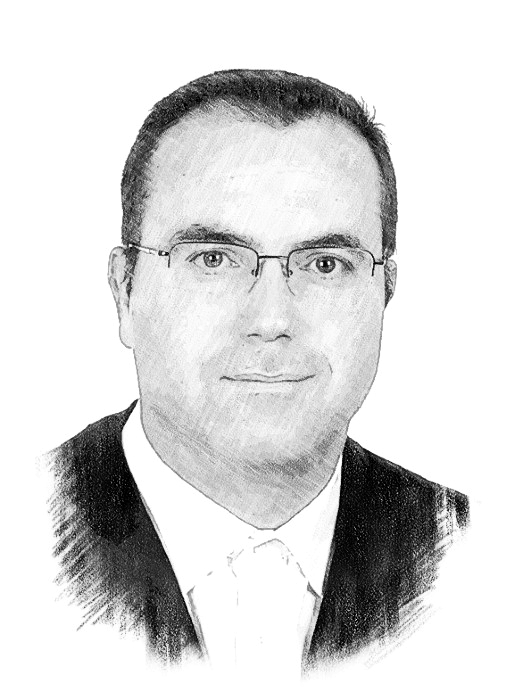
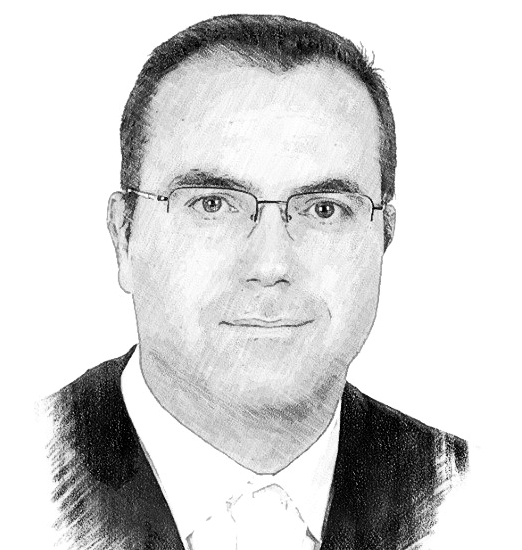
Nov.11.2015 changes

diff --git a/index.html b/index.html
@@ -21,14 +21,15 @@
           <p>Tenured Assistant Professor</p>
   
   
-          <p><img src="images/cf.jpg" alt="Me"></p>
+          <p><img src="images/cf.jpg" alt="Me" style="width:75%;"></p>
         </div>
       <pre>email:   farre`at`essi.upc.edu
 office:  Despatx Omega-133 (<a href=
 				"http://maps.google.com/maps/ms?ie=UTF8&amp;hl=en&amp;msa=0&amp;msid=118446664410541882953.00000112d8265e1d7f8ae&amp;t=h&amp;z=19">map</a>)
          Jordi Girona 1-3
          08034-Barcelona
-phone:   +34 934 137 819 (<a href="tel:+34934137819">dial</a>)
+phone:   <a href="tel:+34934137819">+34 934 137 819 </a>
+skype:   <a href="skype:carlesf?call">carlesf</a>
 twitter: <a href="https://twitter.com/cfarre">@cfarre</a>
 </pre>
 
@@ -66,8 +67,11 @@ I am teaching Web Engineering courses at the <a href="http://www.fib.upc.edu/fib
 <h2>
 <a id="research" class="anchor" href="#research" aria-hidden="true"><span class="octicon octicon-link"></span></a>Research</h2>
 
+<p>Projects:</p>
+<ul>
+<li><a href="https://www.supersede.eu/">SUPERSEDE</a> (Founded by EU's H2020-ICT 9 Programme)</li>
+</ul>
 <p>Member of the following Research Groups:</p>
-
 <ul>
 <li>
 <a href="http://www.essi.upc.edu/%7Egessi/">GESSI::Software and Service Engineering Grup</a> (2015 - today)</li>
@@ -81,10 +85,9 @@ I am teaching Web Engineering courses at the <a href="http://www.fib.upc.edu/fib
 <li><a href="http://scholar.google.com/citations?user=_XJMeP0AAAAJ&amp;hl=en">Google Scholar</a></li>
 <li><a href="http://www.informatik.uni-trier.de/%7Eley/db/indices/a-tree/f/Farr=eacute=:Carles.html">DBLP Bibliography</a></li>
 </ul>
-      </section>
-      <footer>
-        <p><small>Last modified: 15 May 2015</small></p>
-      </footer>
+<p/>
+<p><small>Last modified: 11 November 2015</small></p>
+</section>
     </div>
     <script src="javascripts/scale.fix.js"></script>
               <script type="text/javascript">
